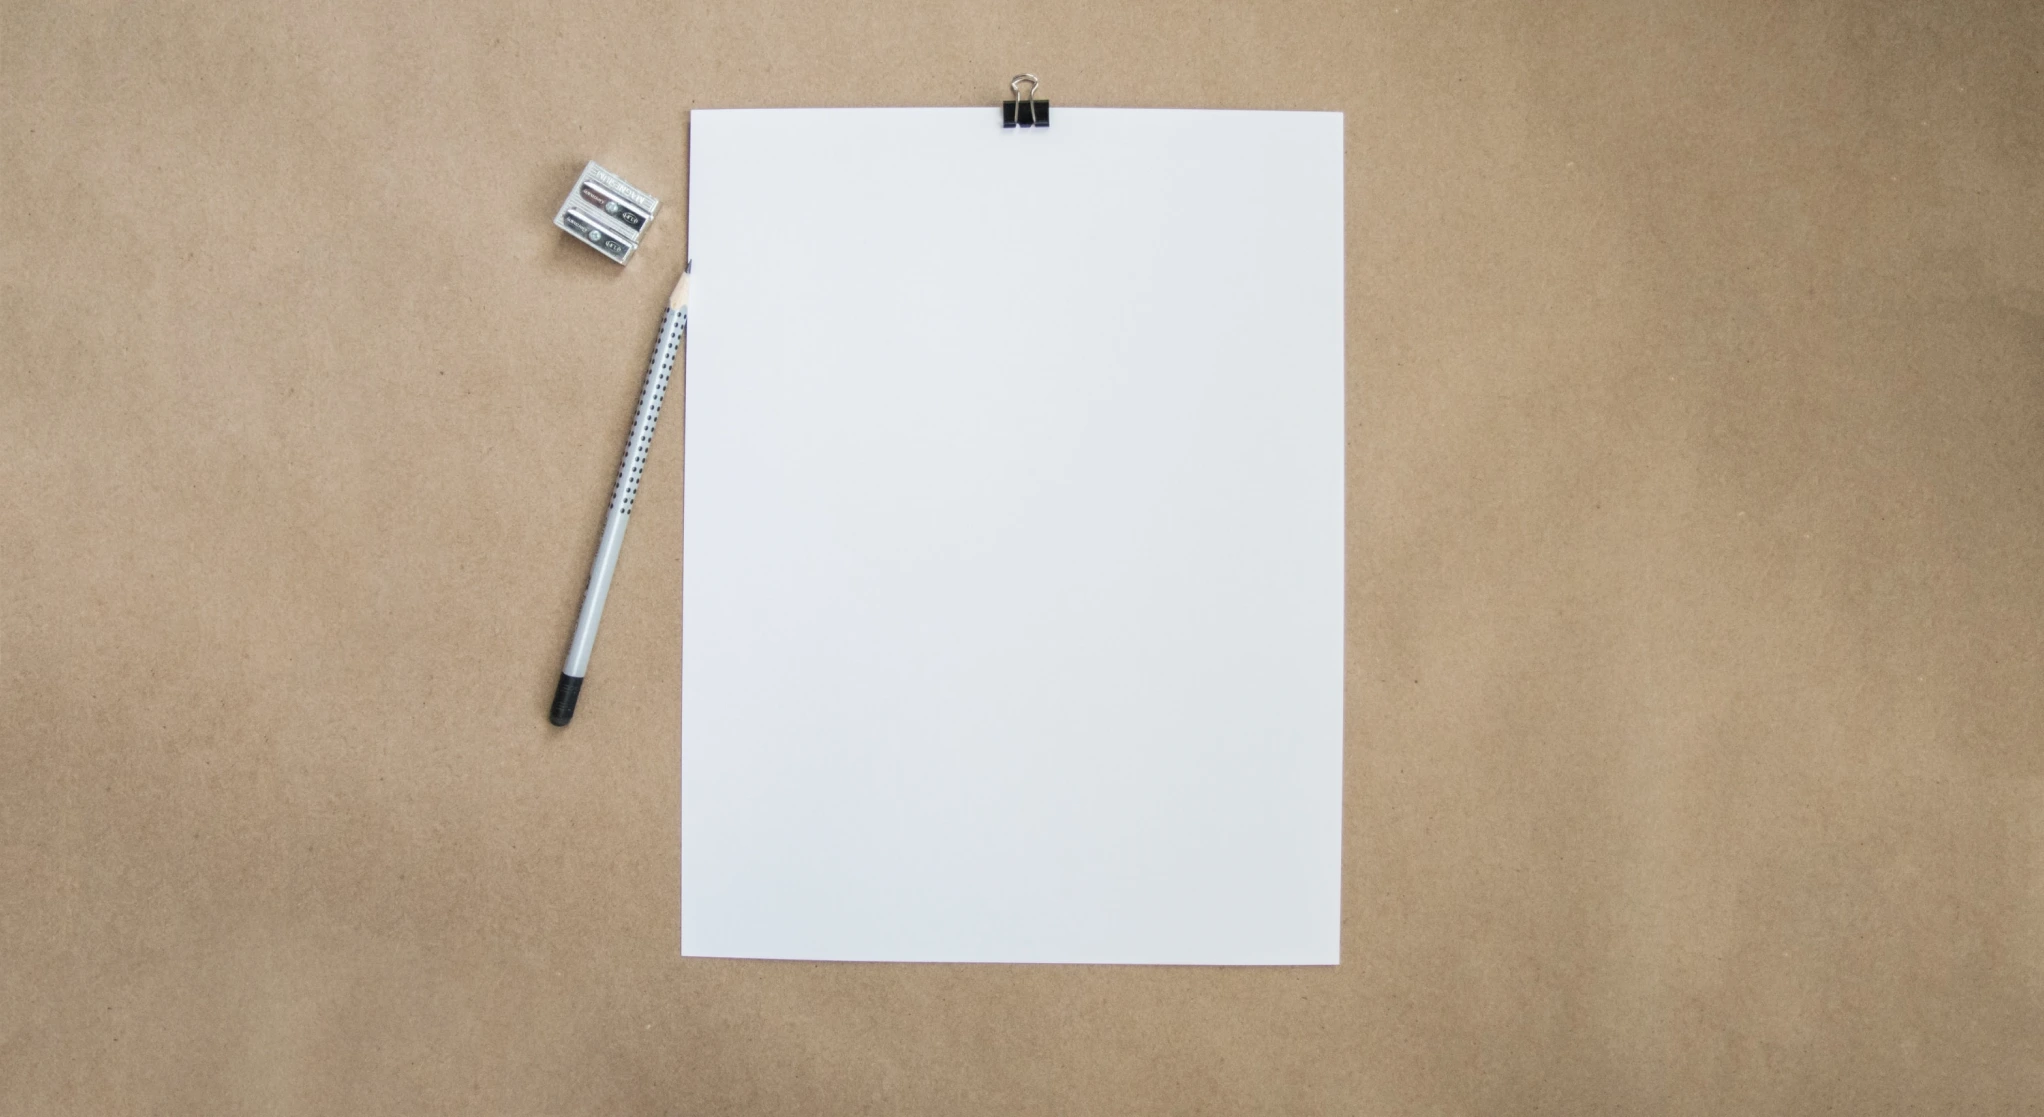
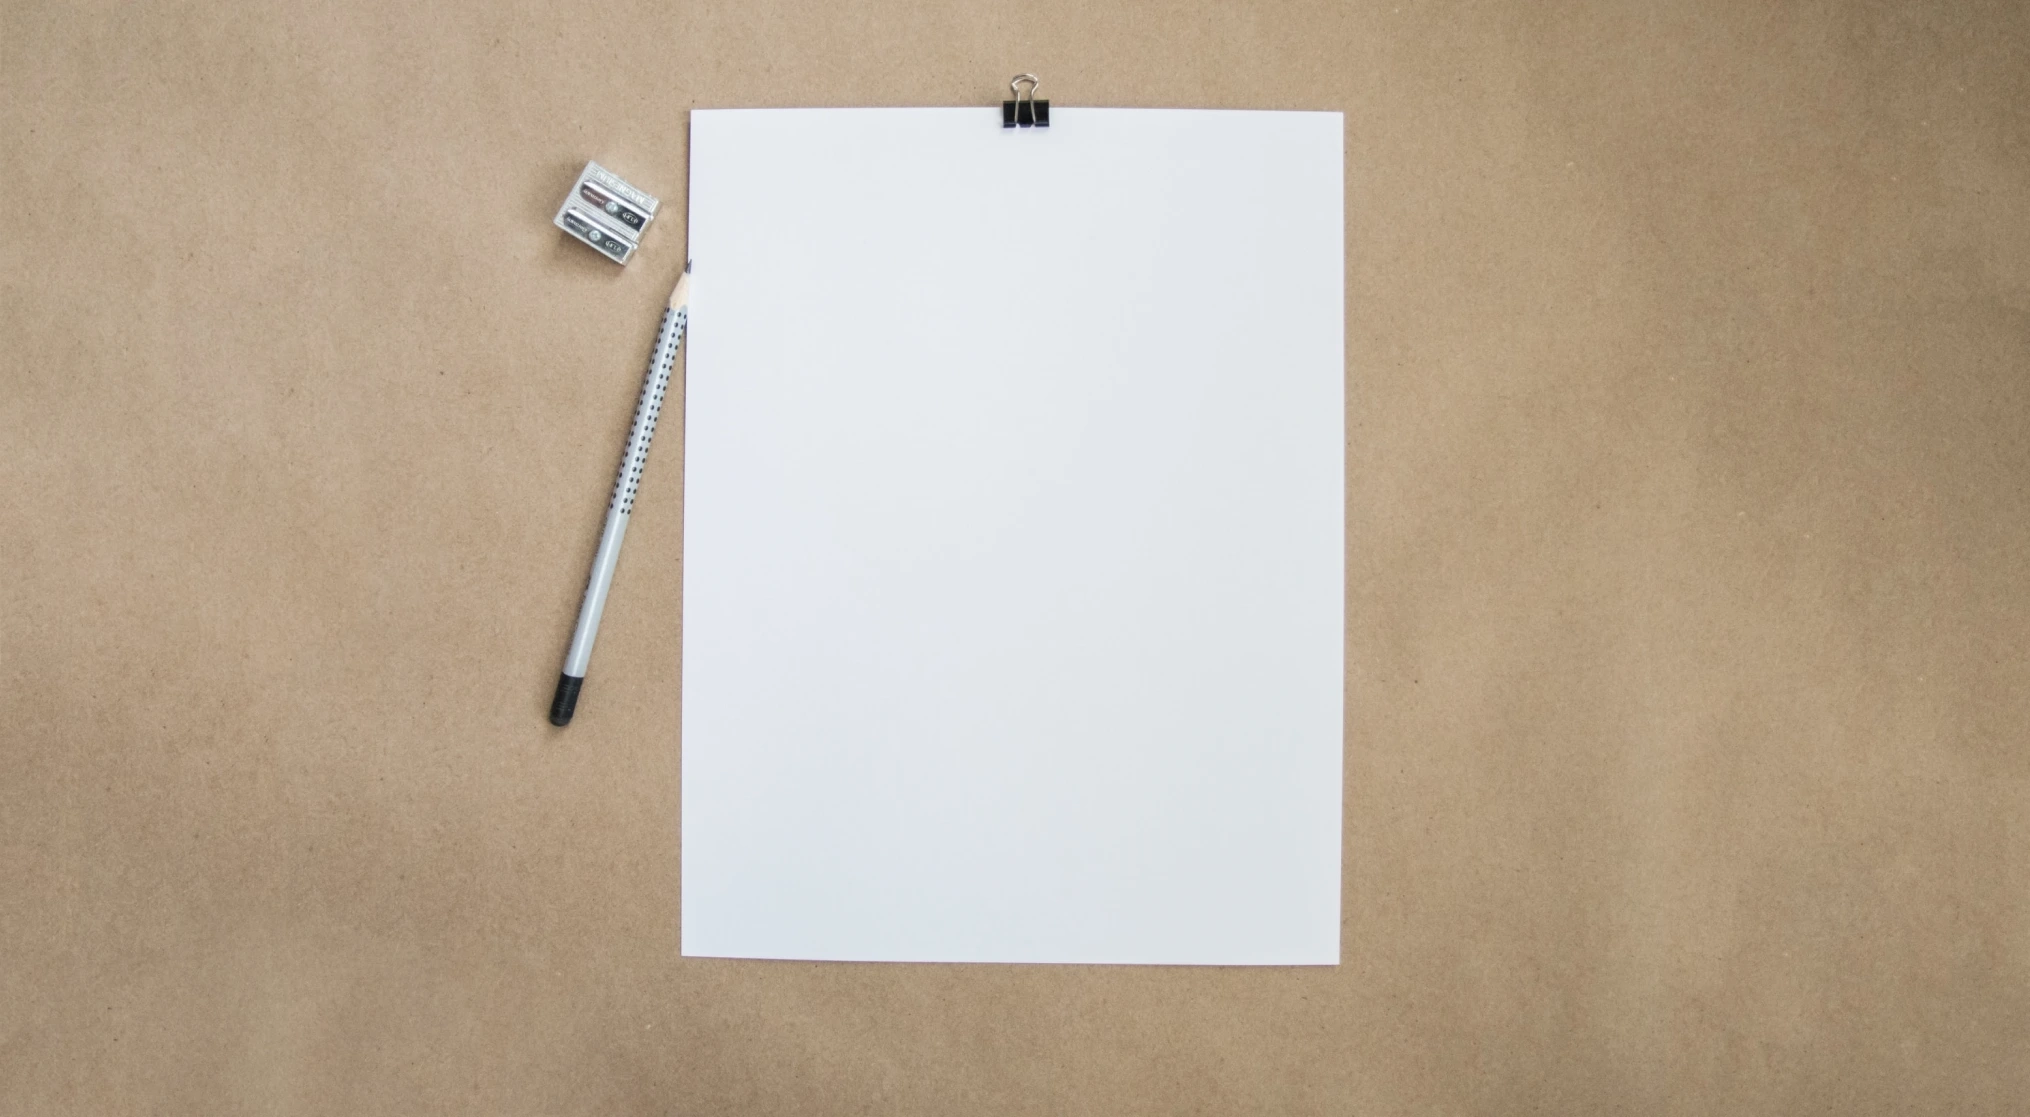
Compress images, change main background image width

Changed region(s): [[0.2483, 0.0913, 0.3414, 0.6392], [0.6517, 0.0913, 0.6828, 0.8523], [0.4655, 0.0609, 0.5276, 0.1218]]

diff --git a/frontend/src/components/Layout/styles.scss b/frontend/src/components/Layout/styles.scss
@@ -17,7 +17,7 @@
         flex-direction: column;
         align-items: center;
         width: 100%;
-        max-width: 2044px;
+        max-width: 2030px;
         min-height: 100%;
     }
 
